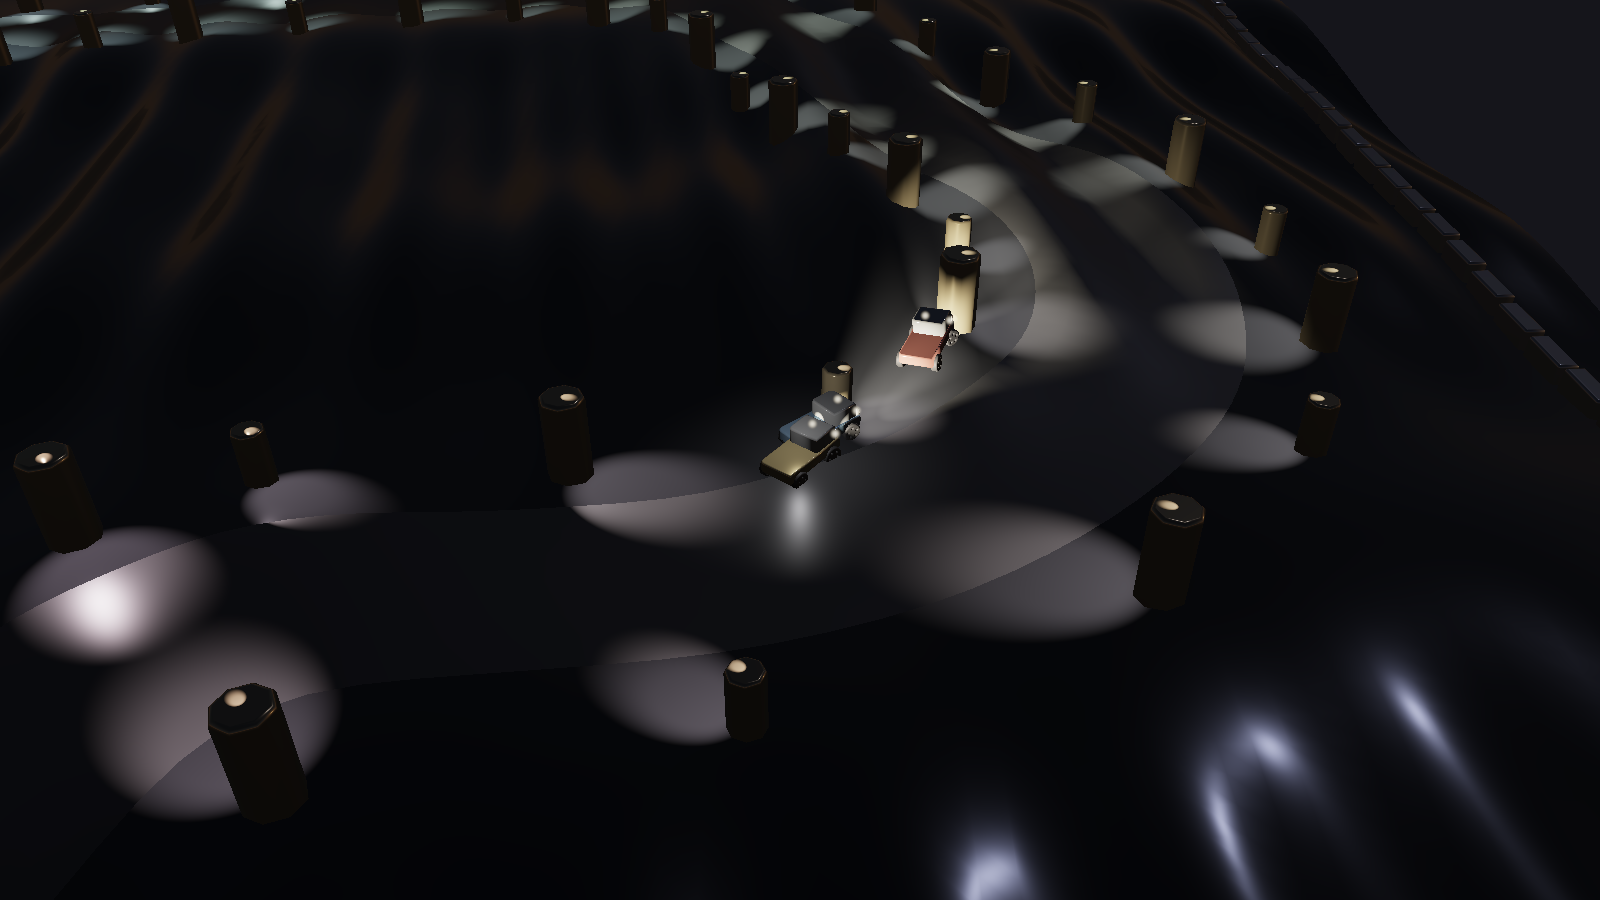
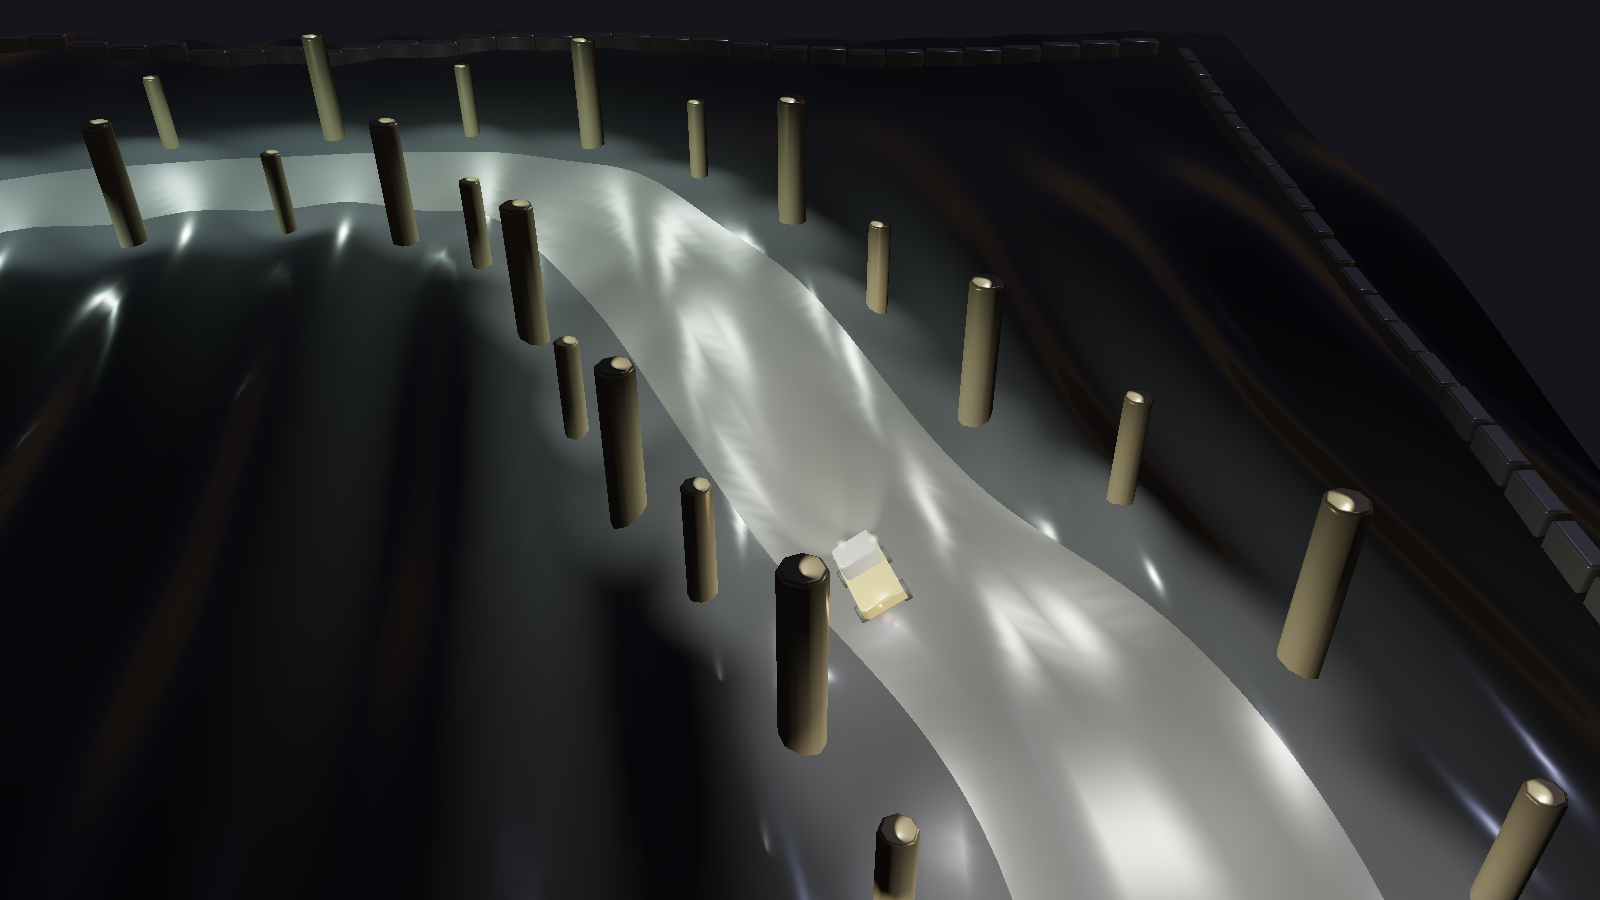
Floodlights that reach across the road, not an ellipse each
They lit a patch apiece and left the road between them dark. The geometry
says why: a post stands 640mm to the side of a track 760 wide, so its light
has to reach from 260mm away to 1020 — and a 34 degree cone from a post only
250 tall cannot. It covers a band near the inner edge and meets everything
past that at an angle too shallow to light it.

So the cone is 58 degrees rather than 34, and the posts are 430 tall rather
than 250, which is the half that matters: widening a cone from a short post
spreads the same grazing light over more road. Height is what puts the far
edge at an angle that catches any.

Intensity went to 8.5 by way of 15 — at 15 the whole road was white and the
car was lost against it — and the posts are a duller metal now that they are
twice the size and catching that much more light.

2.41 ms a frame at 1080p with 94 lights, against 2.31 with 93 narrower ones.

diff --git a/src/lighting.ts b/src/lighting.ts
@@ -27,8 +27,16 @@ export const LIGHT_CAPACITY = 256;
 export const EFFECT_CAPACITY = 512;
 
 /**
- * The floodlights on the trackside posts: one each, aimed inward and down at
- * the tarmac beside it.
+ * The floodlights on the trackside posts: one each, aimed across the road and
+ * down at it.
+ *
+ * They lit an oblique ellipse each and left the road between them dark. A
+ * post stands 640mm to the side of a track 760 wide, so its light has to
+ * reach from 260mm away to 1020 — and a 34 degree cone from a post only 250
+ * tall cannot: it covers a band near the inner edge and grazes everything
+ * past it at an angle too shallow to light anything. The cone is 58 degrees
+ * now, and the posts are 430 tall rather than 250, which is what puts the far
+ * edge of the road at an angle that catches light at all.
  *
  * They used to sweep, which was right when the game was about finding things
  * in the dark and is wrong now. A driver needs to know what the corner does
@@ -52,12 +60,12 @@ function floods(pool: LightPool) {
     const c = hueToRgb(hue);
     pool.add({
       position: [x, y, height(x, y) + COLUMN_HEIGHT * scale - 24],
-      radius: 2000,
+      radius: 2900,
       // barely tinted: a coloured circuit is pretty, a white one is legible
       colour: [0.72 + c[0] * 0.28, 0.72 + c[1] * 0.28, 0.75 + c[2] * 0.25],
-      intensity: 9,
-      direction: [inx * side * 0.55, iny * side * 0.55, -0.83],
-      cone: [16, 34],
+      intensity: 8.5,
+      direction: [inx * side * 0.60, iny * side * 0.60, -0.80],
+      cone: [30, 58],
     });
   }
 }

diff --git a/src/scene.ts b/src/scene.ts
@@ -102,7 +102,7 @@ export const MESHES = {
   /** A perimeter block, laid along the wall it belongs to. */
   block: () => part('plate(card(width: 218, height: 74, corner: 12), thickness: 132, bevel: 12)', 'base'),
   /** An eight-sided column, for the corners to reflect things in. */
-  column: () => part(`disc(radius: 54, thickness: ${COLUMN_HEIGHT}, sides: 8, bevel: 11)`, 'base'),
+  column: () => part(`disc(radius: 44, thickness: ${COLUMN_HEIGHT}, sides: 8, bevel: 9)`, 'base'),
   /**
    * The player is a technical: a flatbed with a gun on the back that aims
    * where it likes, not where the truck is pointing. It is five parts rather
@@ -126,7 +126,7 @@ export const MESHES = {
 };
 
 /** How tall an unscaled post is, so a spotlight can sit on top of one. */
-export const COLUMN_HEIGHT = 250;
+export const COLUMN_HEIGHT = 430;
 
 /**
  * The posts, which line the circuit rather than standing on a grid.

diff --git a/src/main.ts b/src/main.ts
@@ -86,7 +86,7 @@ async function main() {
     { mesh: mesh.floor, matrices: identity(), albedo: [0.055, 0.060, 0.078], roughness: 0.14 },
     { mesh: mesh.tile, matrices: at.tiles, albedo: [0.135, 0.140, 0.160], roughness: 0.34 },
     { mesh: mesh.block, matrices: at.blocks, albedo: [0.58, 0.61, 0.68], roughness: 0.26 },
-    { mesh: mesh.column, matrices: at.columns, albedo: [0.76, 0.60, 0.34], roughness: 0.18 },
+    { mesh: mesh.column, matrices: at.columns, albedo: [0.46, 0.38, 0.24], roughness: 0.30 },
     { mesh: mesh.gantry, matrices: gantryPosts(), count: 2, albedo: [0.62, 0.64, 0.70], roughness: 0.25 },
   ]);
 
